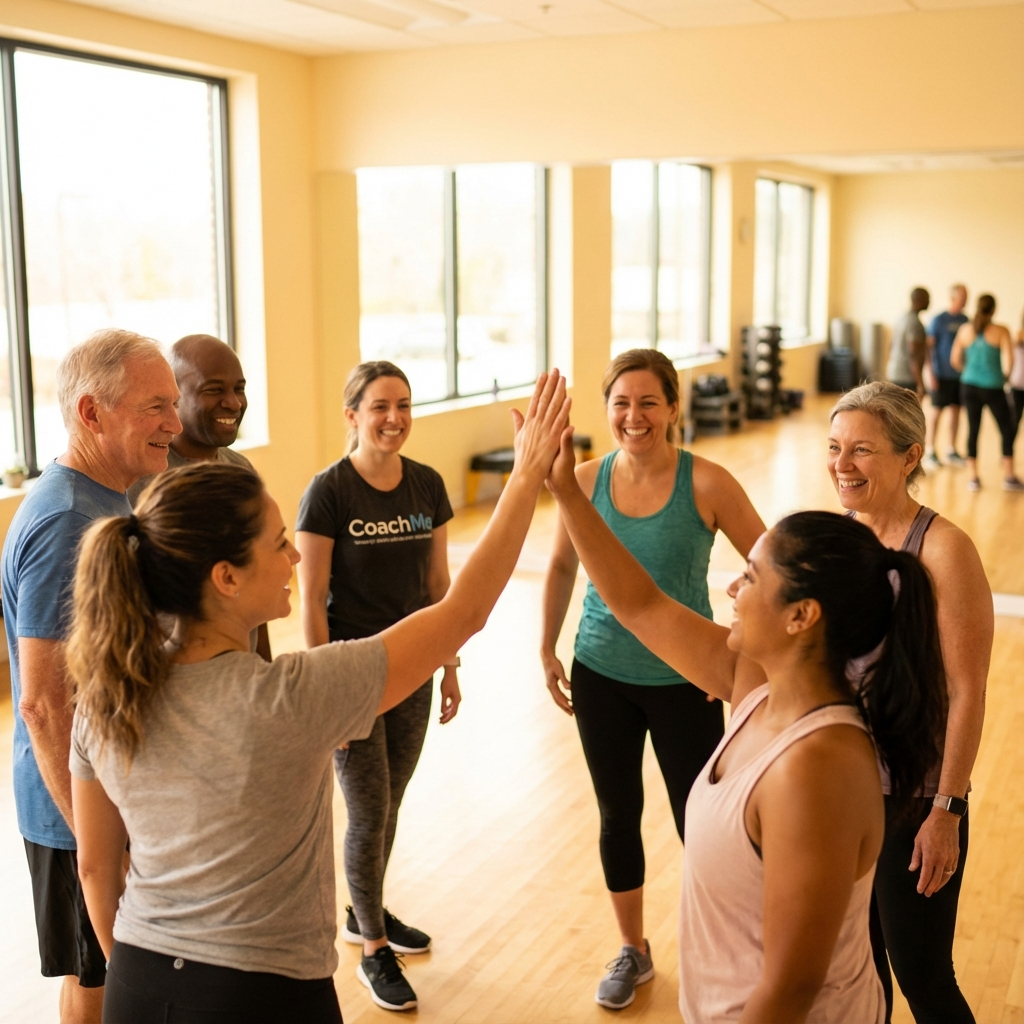
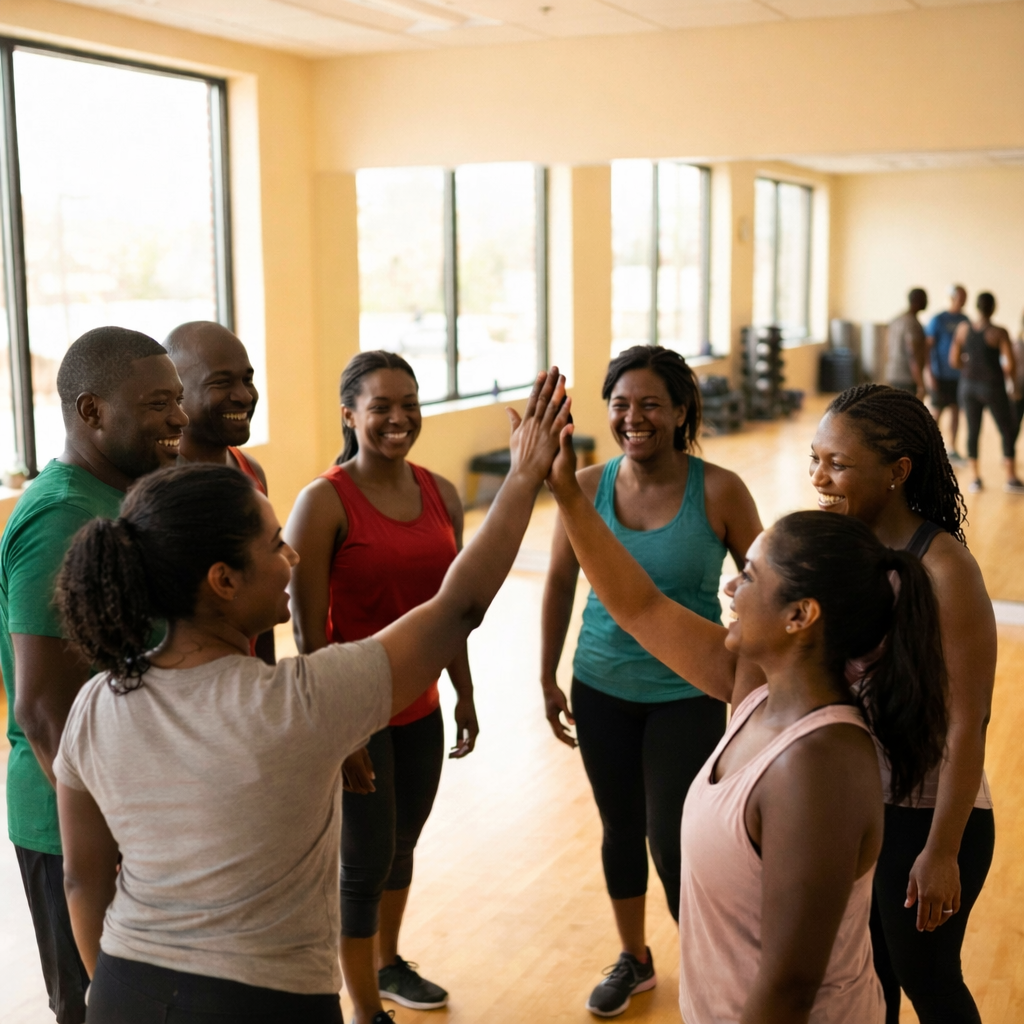
scrollbar added and images changed

diff --git a/src/components/home/AboutSection.module.css b/src/components/home/AboutSection.module.css
@@ -118,6 +118,8 @@
     overflow: hidden;
     box-shadow: var(--shadow-2xl);
     z-index: 2;
+    background-color: #f3f4f6;
+    /* Placeholder gray to debug visibility */
 }
 
 @media (min-width: 1024px) {
@@ -190,84 +192,4 @@
     color: var(--gray-500);
     font-weight: var(--font-medium);
     text-transform: uppercase;
-}
-
-/* Right Column: Content */
-.content {
-    display: flex;
-    flex-direction: column;
-    gap: var(--space-6);
-}
-
-.eyebrow {
-    font-size: var(--text-sm);
-    font-weight: var(--font-bold);
-    color: var(--primary);
-    letter-spacing: 0.1em;
-    text-transform: uppercase;
-}
-
-.title {
-    font-size: var(--text-3xl);
-    line-height: 1.2;
-    margin-bottom: 0;
-}
-
-@media (min-width: 768px) {
-    .title {
-        font-size: var(--text-4xl);
-    }
-}
-
-.highlight {
-    color: var(--primary);
-    position: relative;
-}
-
-.description {
-    font-size: var(--text-lg);
-    color: var(--text-secondary);
-    line-height: 1.7;
-}
-
-.features {
-    display: flex;
-    flex-direction: column;
-    gap: var(--space-6);
-    margin-top: var(--space-4);
-}
-
-.featureItem {
-    display: flex;
-    gap: var(--space-4);
-}
-
-.iconWrapper {
-    flex-shrink: 0;
-    width: 48px;
-    height: 48px;
-    background: rgba(46, 175, 161, 0.1);
-    border-radius: var(--radius-lg);
-    display: flex;
-    align-items: center;
-    justify-content: center;
-    color: var(--primary);
-}
-
-.featureText {
-    display: flex;
-    flex-direction: column;
-    gap: 4px;
-}
-
-.featureTitle {
-    font-size: var(--text-lg);
-    font-weight: var(--font-bold);
-    color: var(--text-primary);
-}
-
-.featureDesc {
-    font-size: var(--text-sm);
-    color: var(--text-secondary);
-    line-height: 1.5;
 }

diff --git a/src/styles/globals.css b/src/styles/globals.css
@@ -346,17 +346,34 @@ select:focus {
    SCROLLBAR
    ============================================ */
 /* Hide scrollbar for Chrome, Safari and Opera */
+/* Custom Scrollbar */
 ::-webkit-scrollbar {
-  display: none !important;
+  width: 10px;
+  /* Width for vertical scrollbar */
+  height: 10px;
+  /* Height for horizontal scrollbar */
 }
 
-/* Hide scrollbar for IE, Edge and Firefox */
+::-webkit-scrollbar-track {
+  background: var(--gray-100);
+}
+
+::-webkit-scrollbar-thumb {
+  background: var(--primary);
+  border-radius: var(--radius-full);
+  border: 2px solid var(--gray-100);
+  /* Creates padding effect */
+}
+
+::-webkit-scrollbar-thumb:hover {
+  background: var(--primary-dark);
+}
+
+/* Firefox */
 html,
 body {
-  -ms-overflow-style: none !important;
-  /* IE and Edge */
-  scrollbar-width: none !important;
-  /* Firefox */
+  scrollbar-width: thin;
+  scrollbar-color: var(--primary) var(--gray-100);
 }
 
 /* ============================================

diff --git a/src/components/home/Hero.tsx b/src/components/home/Hero.tsx
@@ -60,7 +60,7 @@ export default function HomeHero() {
                 <div className={styles.contentRight}>
                     <div className={styles.imageWrapper}>
                         <Image
-                            src="/hero-coach.jpg"
+                            src="/hero.png"
                             alt="Professional Coach"
                             fill
                             priority